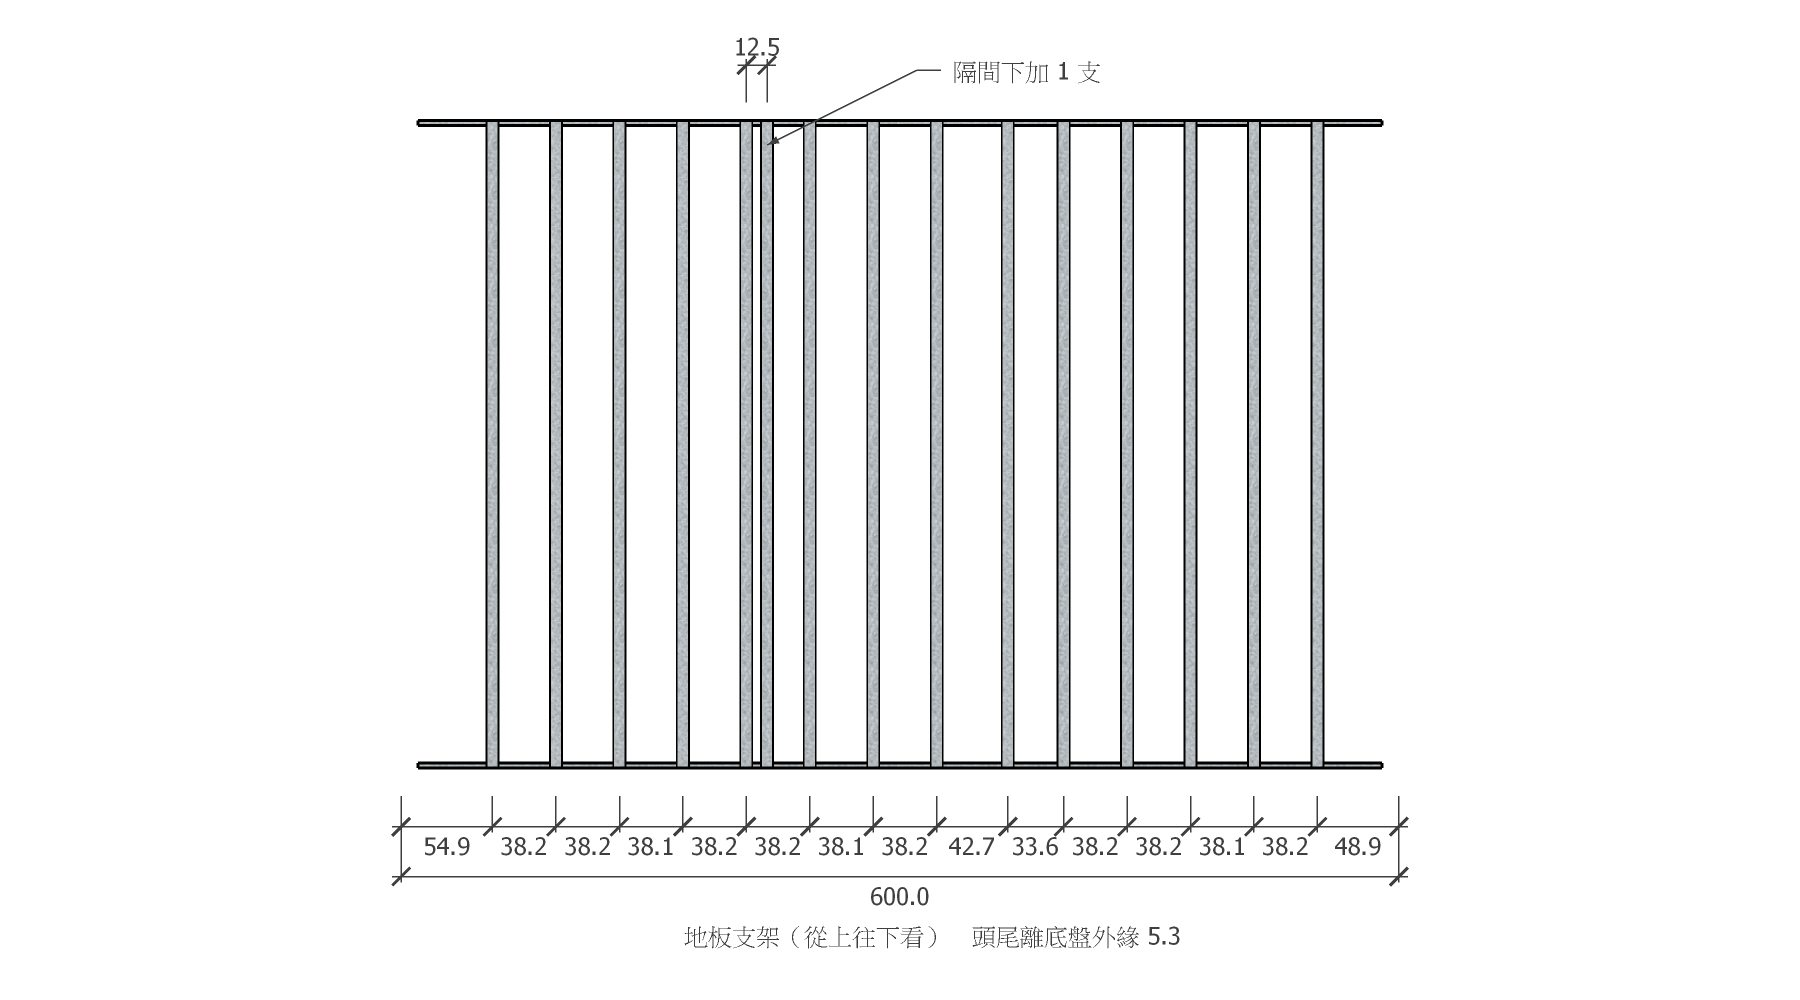
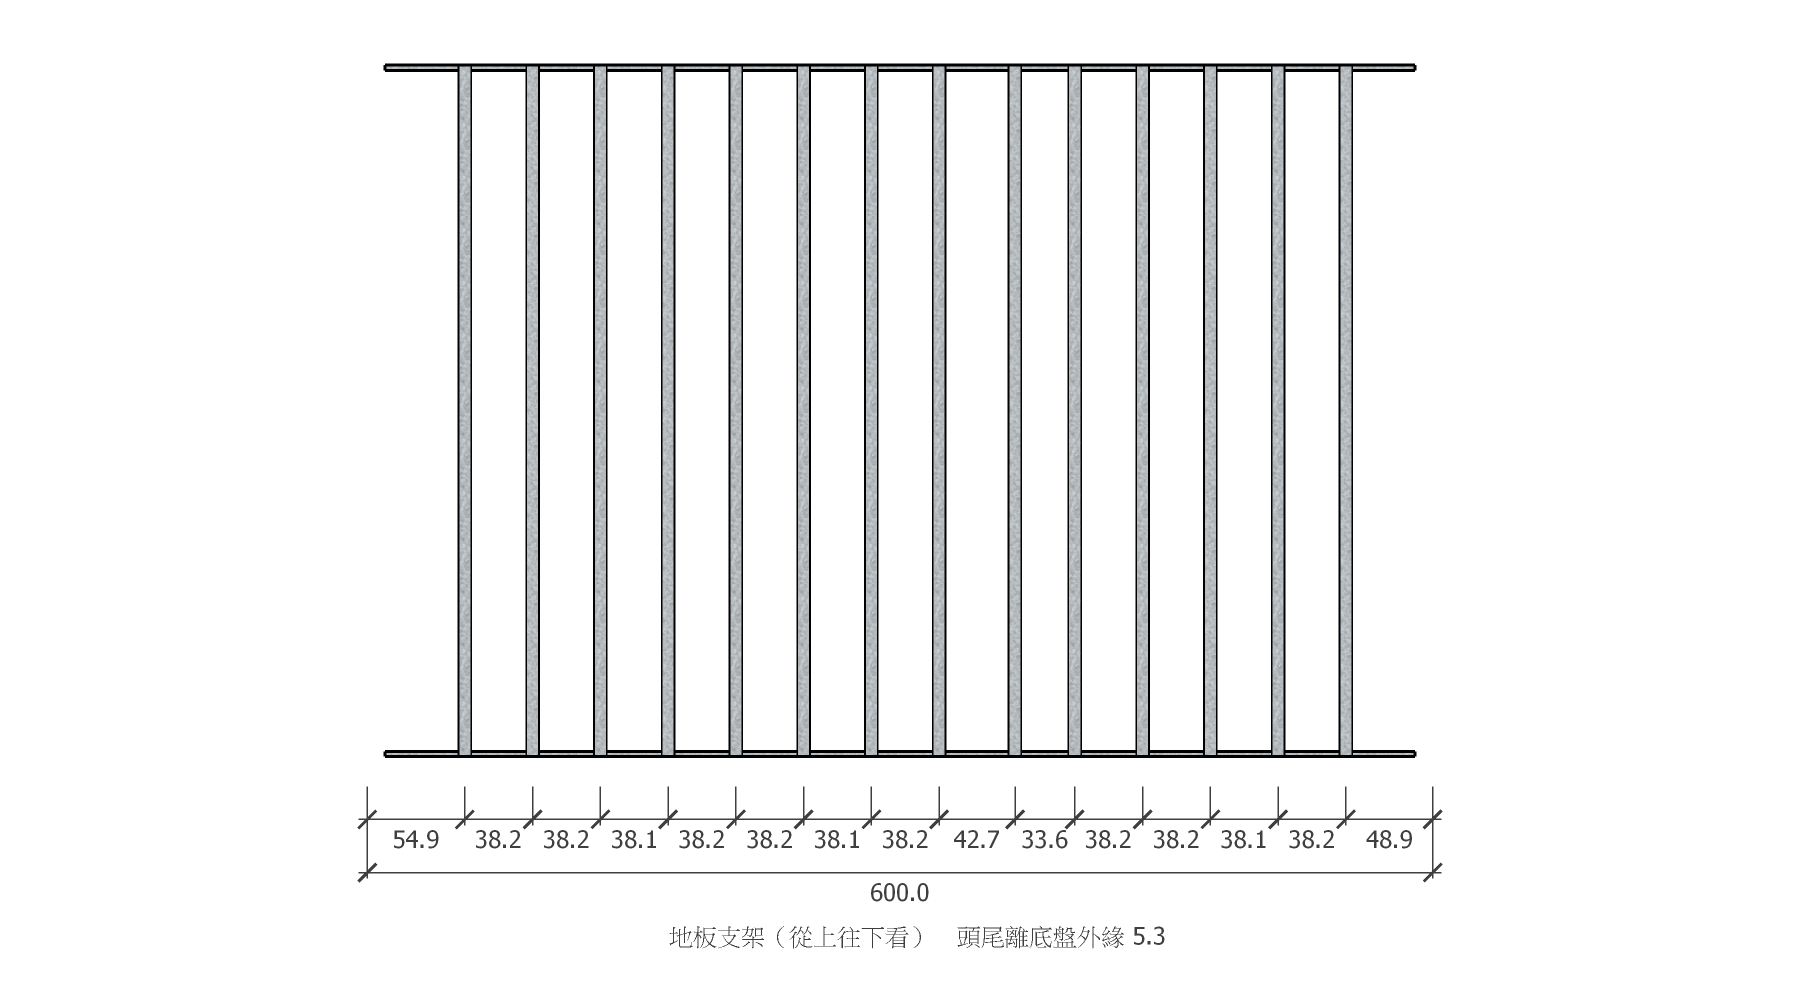
4x6骨架施工圖：地板支架拿掉隔間下多加那支
Claude-Session: https://claude.ai/code/session_01LhZad5V9yGZa6W9osKj3sN

Changed region(s): [[0.2178, 0.031, 0.7778, 0.775], [0.1867, 0.806, 0.8089, 0.961]]

diff --git a/4x6-frame.html b/4x6-frame.html
@@ -41,7 +41,7 @@ nav a{padding:6px 12px;border:1px solid var(--line);border-radius:16px;backgroun
 <div class="card" id="right"><h2>右牆<small>從屋外看・含前面平台不落地柱</small></h2>
 <a class="img" href="img/4x6-frame/right.png"><img src="img/4x6-frame/right.png" alt="右牆骨架" loading="lazy"></a></div>
 
-<div class="card" id="floor"><h2>地板支架<small>從上往下看・150型C鋼・支架頭尾離底盤外緣 5.3・隔間底下多加 1 支（離左邊那支 12.5）</small></h2>
+<div class="card" id="floor"><h2>地板支架<small>從上往下看・150型C鋼・支架頭尾離底盤外緣 5.3</small></h2>
 <a class="img" href="img/4x6-frame/floor.png"><img src="img/4x6-frame/floor.png" alt="地板支架平面" loading="lazy"></a></div>
 
 <div class="card" id="roof"><h2>屋頂橫樑<small>從左邊看・沿斜樑量・第一支與最後一支貼齊斜樑兩端</small></h2>
